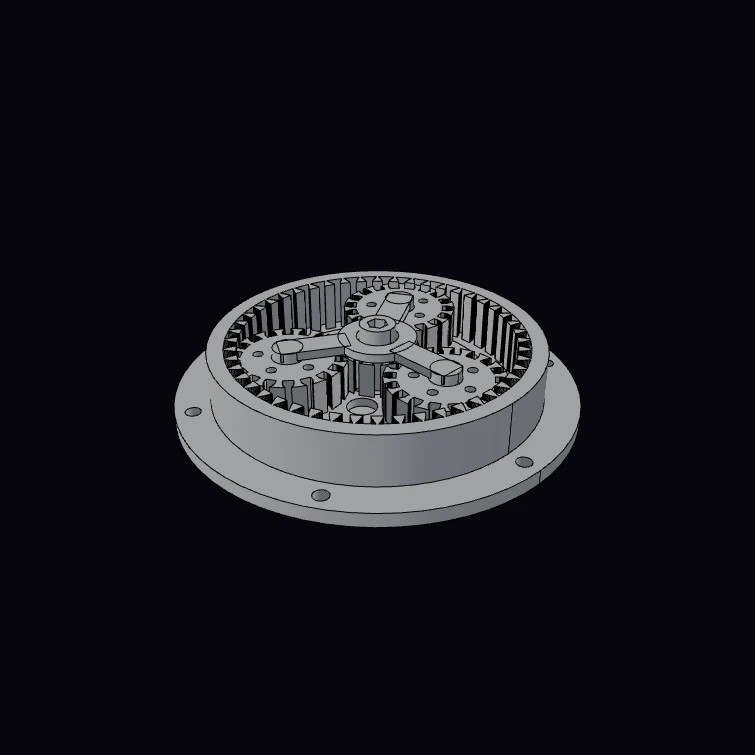
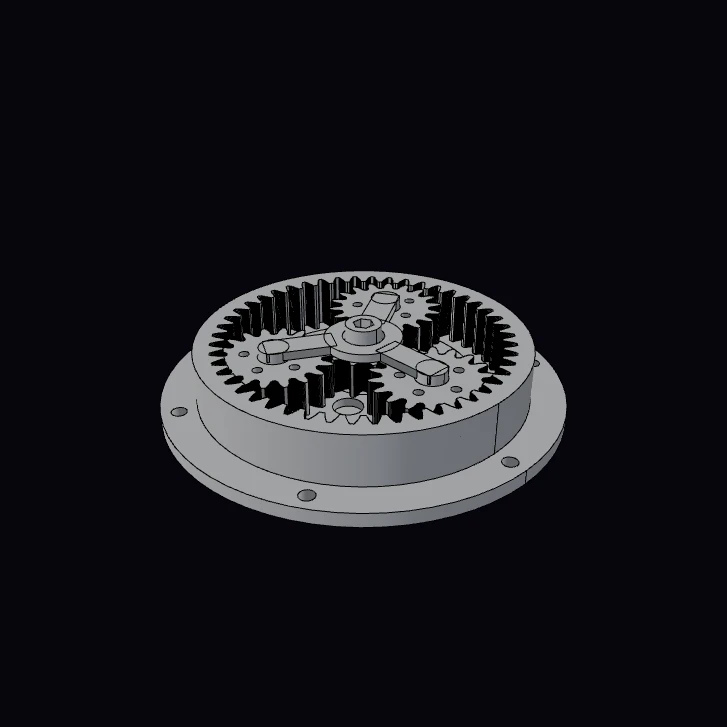
fix(playground): correct planetary gear involute flanks + add root fillets
The first cut inherited the spur-gear template's inverted flank (the +angle flank
used the un-mirrored involute), so teeth widened toward the tip — a dovetail that
cannot mesh, which made the measured "mesh overlap" actually tooth interference.
Fix the flank (offset = halfTooth + phiPitch, mirrored involute on the +angle
side) so each tooth narrows to its tip, and replace the sharp radial root with a
circular root fillet running to the shared space-centre point, which clears the
mating tip. Full-depth teeth now mesh with zero clipping: sun-planet 0.0 mm^3,
planet-ring ~2 mm^3 (was 26-42). Thumbnail + turntable regenerated.

Changed region(s): [[0.2118, 0.3329, 0.7868, 0.7263]]

diff --git a/apps/playground/src/lib/examples/mechanical.ts b/apps/playground/src/lib/examples/mechanical.ts
@@ -3307,8 +3307,8 @@ function planetaryReducer({
   planetCount = 3, // equally spaced; (Zsun+Zring) must divide by this
   faceWidth = 12, // gear thickness (mm)
   pressureAngleDeg = 20, // 20° is the industry standard
-  backlash = 0.25, // tooth-thinning clearance so flanks don't jam (mm)
-  addendumFactor = 0.85, // shorten tips to clear the 12-tooth sun's undercut zone
+  backlash = 0.15, // tooth-thinning clearance so flanks don't jam (mm)
+  addendumFactor = 1.0, // full-depth teeth (the trochoid-style root fillet clears interference)
   wall = 8, // ring rim beyond the pitch circle (mm)
   flangeWidth = 12, // mounting flange overhang beyond the wall (mm)
   flangeThick = 5, // flange / floor thickness (mm)
@@ -3322,7 +3322,7 @@ function planetaryReducer({
 } = {}) {
   const teethRing = teethSun + 2 * teethPlanet;
   const PA = (pressureAngleDeg * Math.PI) / 180;
-  const STEPS = 12; // involute samples per flank
+  const STEPS = 16; // involute samples per flank
   const m = module;
 
   const prRing = (m * teethRing) / 2; // 48 — ring pitch radius
@@ -3346,7 +3346,11 @@ function planetaryReducer({
   ];
 
   // One closed CCW loop of all the involute teeth, a tooth centred at angle 0.
-  // ra/rr are the radii the involute spans; blHalf thins each flank (backlash).
+  // The +angle flank uses the MIRRORED involute (offset = halfTooth + phiPitch) so
+  // the tooth narrows to the tip like a real cut gear; where the root dips below
+  // the base circle a circular root fillet (tangent to the flank, running to the
+  // shared space-centre point) replaces the sharp radial root, clearing the mating
+  // tip. ra/rr are the radii the involute spans; blHalf thins each flank (backlash).
   const gearToothLoop = (
     teeth: number,
     ra: number,
@@ -3362,21 +3366,40 @@ function planetaryReducer({
     ];
     const thetaAt = (r: number) => Math.sqrt(Math.max(0, (r / br) ** 2 - 1));
     const phiPitch = Math.atan2(invPt(thetaAt(pr))[1], invPt(thetaAt(pr))[0]);
-    const offset = halfTooth - phiPitch; // land the pitch point at the half-tooth angle
-    const thStart = thetaAt(Math.max(rr, br));
+    const offset = halfTooth + phiPitch;
     const thMax = thetaAt(ra);
+    const thStart = thetaAt(Math.max(rr, br));
 
-    const tooth: [number, number][] = [];
-    if (rr < br) tooth.push(rot([rr, 0], -offset)); // low-N: dip to true root
-    for (let i = 0; i <= STEPS; i++) {
-      const p = invPt(thStart + ((thMax - thStart) * i) / STEPS);
-      tooth.push(rot([p[0], -p[1]], -offset));
-    }
+    // +angle flank, tip -> base (mirrored involute curves back toward centre).
+    const right: [number, number][] = [];
     for (let i = STEPS; i >= 0; i--) {
       const p = invPt(thStart + ((thMax - thStart) * i) / STEPS);
-      tooth.push(rot(p, offset));
+      right.push(rot([p[0], -p[1]], offset));
     }
-    if (rr < br) tooth.push(rot([rr, 0], offset));
+    const rSpace = rot([rr, 0], Math.PI / teeth); // shared root point at the space centre
+    if (rr < br) {
+      const pb = rot([br, 0], offset); // involute base point (flank tangent is radial)
+      const nHat: [number, number] = [-Math.sin(offset), Math.cos(offset)]; // perp to flank, toward space
+      const dx = pb[0] - rSpace[0];
+      const dy = pb[1] - rSpace[1];
+      const rf = -(dx * dx + dy * dy) / (2 * (dx * nHat[0] + dy * nHat[1]));
+      const cf: [number, number] = [pb[0] + rf * nHat[0], pb[1] + rf * nHat[1]];
+      const a0 = Math.atan2(pb[1] - cf[1], pb[0] - cf[0]);
+      const a1 = Math.atan2(rSpace[1] - cf[1], rSpace[0] - cf[0]);
+      let dA = a1 - a0;
+      while (dA > Math.PI) dA -= 2 * Math.PI;
+      while (dA < -Math.PI) dA += 2 * Math.PI;
+      for (let i = 1; i <= STEPS; i++) {
+        const a = a0 + (dA * i) / STEPS;
+        right.push([cf[0] + Math.abs(rf) * Math.cos(a), cf[1] + Math.abs(rf) * Math.sin(a)]);
+      }
+    } else {
+      right.push(rSpace); // root above the base circle — straight root land
+    }
+    // mirror the +angle flank across x for the -angle flank; drop the trailing
+    // space-centre point (it is the next tooth's leading point — avoids a dup vertex).
+    const left: [number, number][] = right.map(([x, y]) => [x, -y] as [number, number]).reverse();
+    const tooth = [...left, ...right.slice(0, -1)];
 
     const loop: [number, number][] = [];
     for (let t = 0; t < teeth; t++) {
@@ -3388,8 +3411,7 @@ function planetaryReducer({
 
   const blHalf = (teeth: number) => backlash / 2 / ((m * teeth) / 2); // per-flank thinning angle
 
-  // External spur gear (addendum shortened by addendumFactor), spun in place,
-  // placed at (cx,cy), extruded up from the gear band.
+  // External spur gear, spun in place, placed at (cx,cy), extruded up from the gear band.
   const spurGear = (teeth: number, spin: number, cx: number, cy: number) => {
     const pr = (m * teeth) / 2;
     const loop = gearToothLoop(teeth, pr + addendumFactor * m, pr - 1.25 * m, blHalf(teeth));
